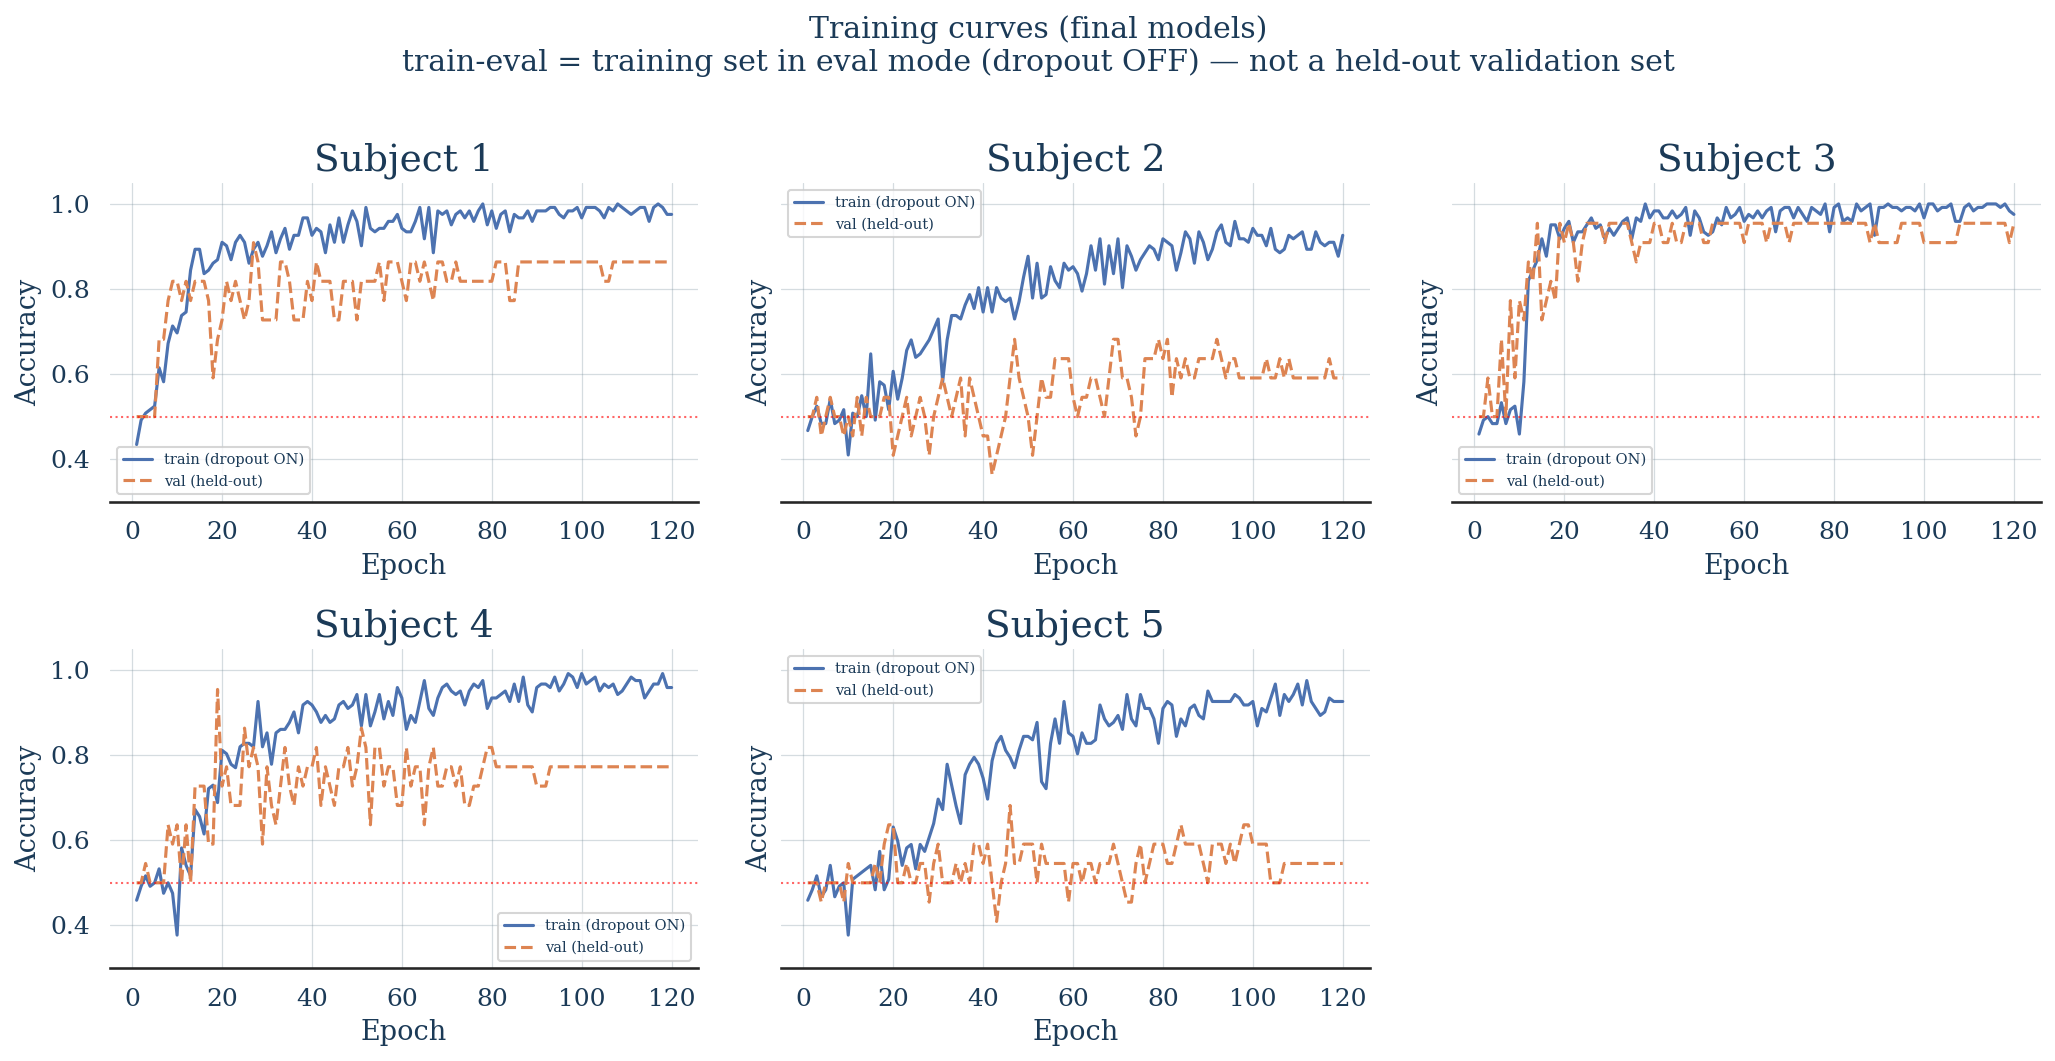
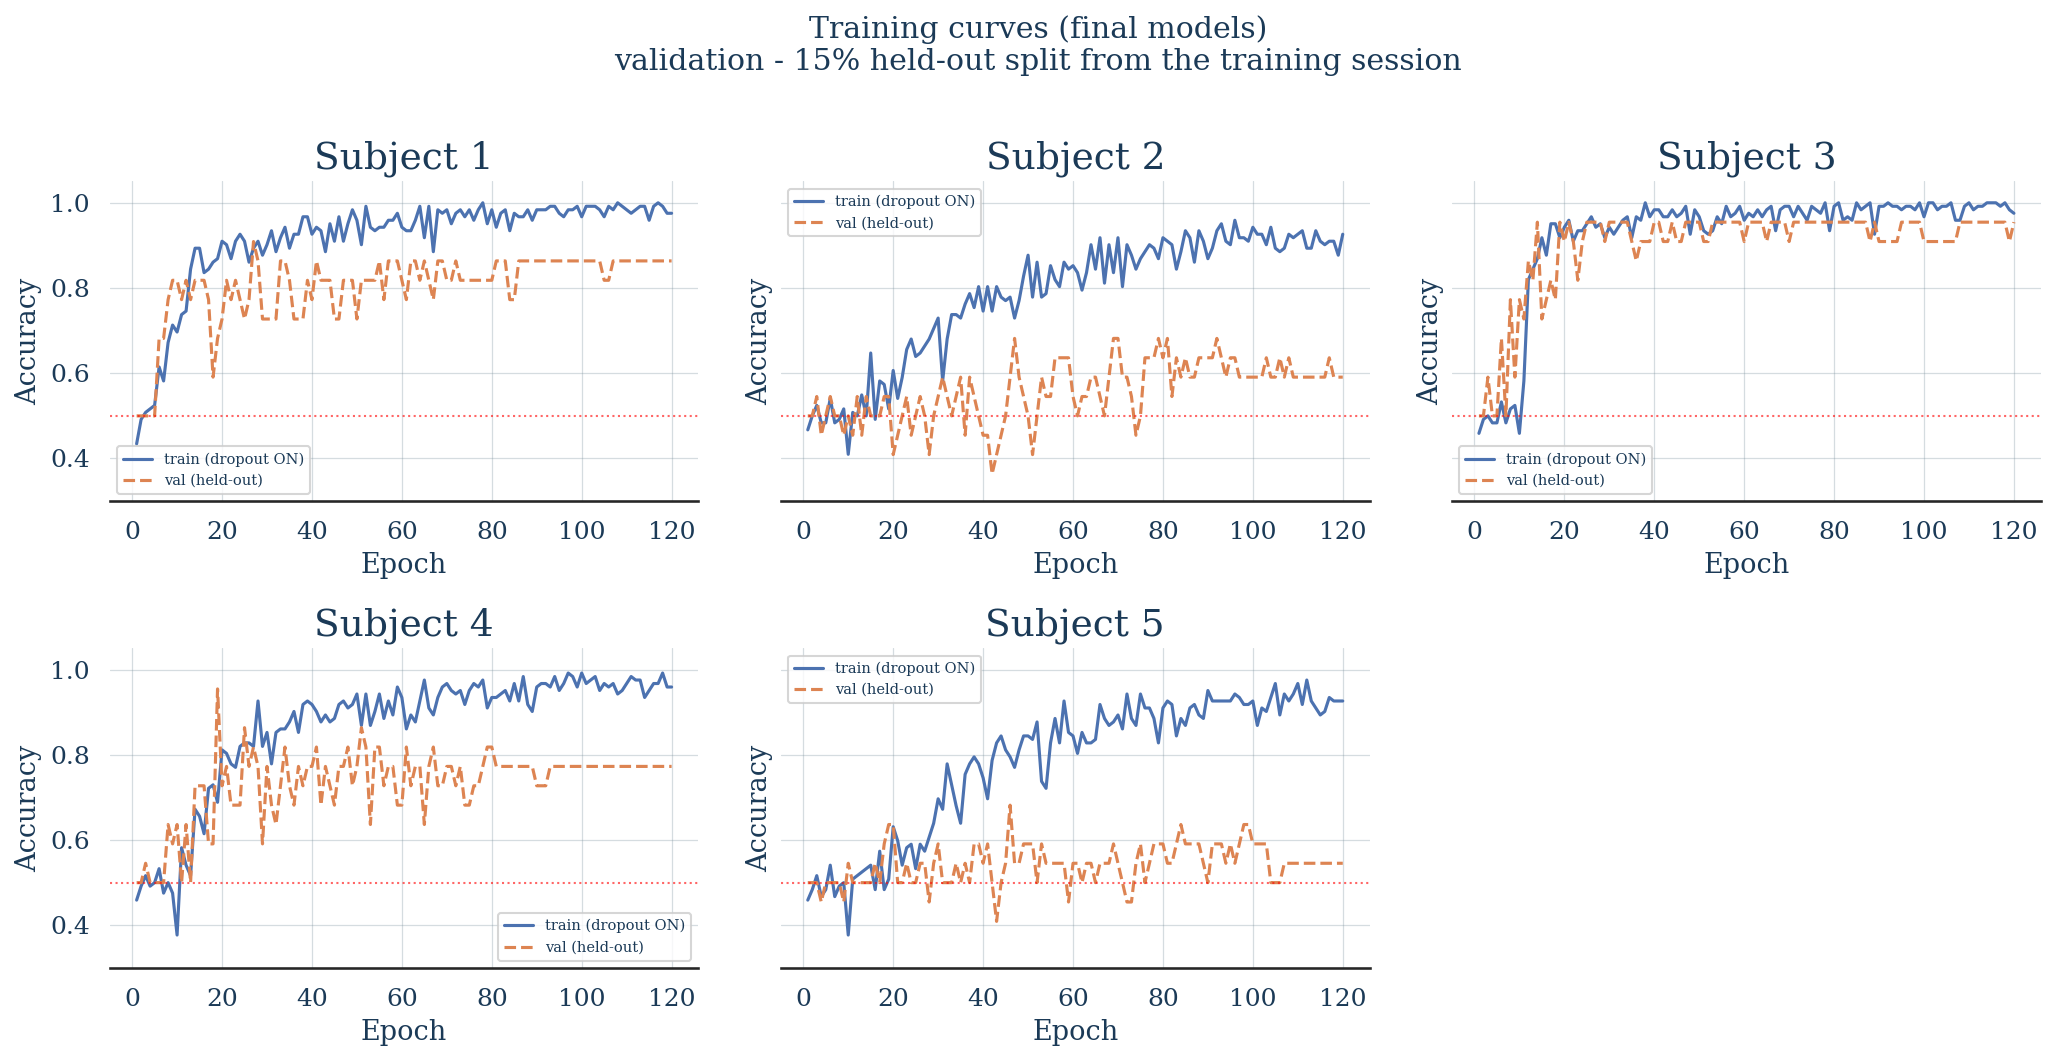
final change

diff --git a/train.py b/train.py
@@ -319,7 +319,7 @@ def main():
     axes.flatten()[-1].set_visible(False)
     fig.suptitle(
         "Training curves (final models)\n"
-        "train-eval = training set in eval mode (dropout OFF) — not a held-out validation set",
+        "validation - 15% held-out split from the training session",
         y=1.01,
     )
     plt.tight_layout()